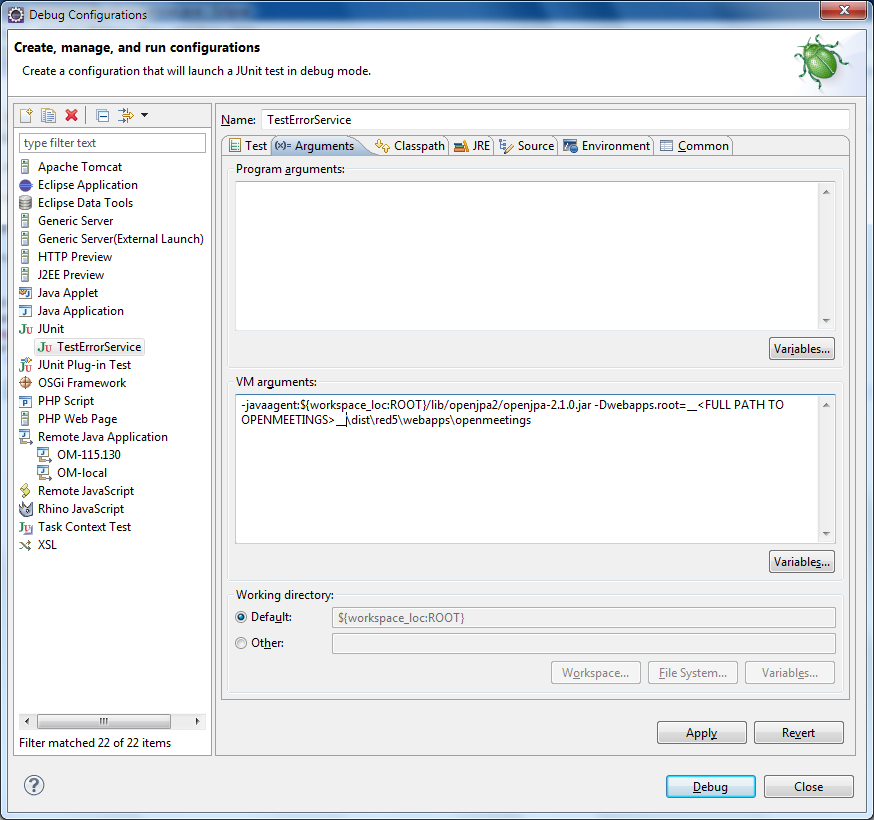
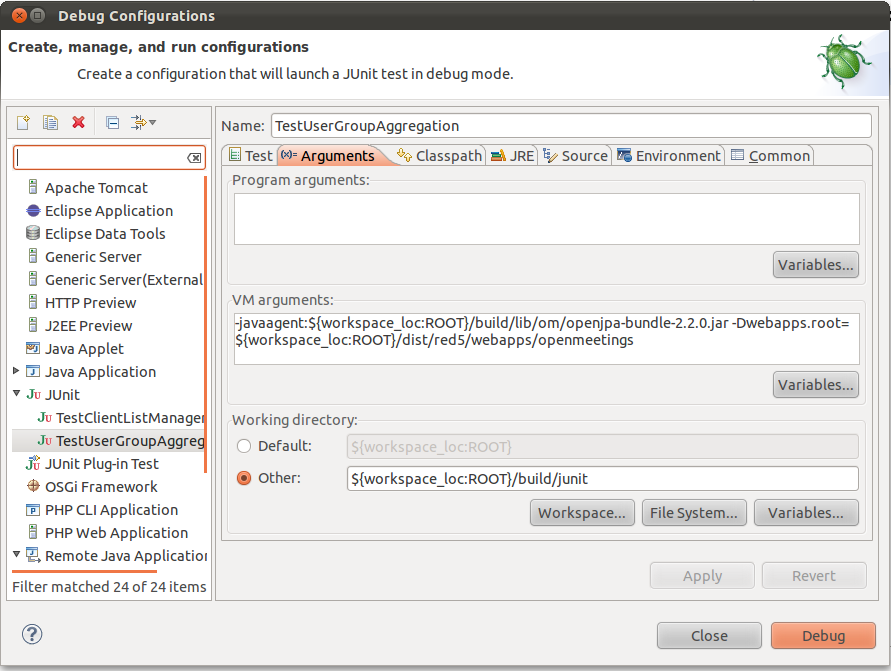
Documentation update: JUnit and index page
git-svn-id: https://svn.apache.org/repos/asf/incubator/openmeetings/trunk@1300705 13f79535-47bb-0310-9956-ffa450edef68

Changed region(s): [[0.0, 0.0, 1.0, 1.0]]

diff --git a/singlewebapp/docs/JUnitTesting.html b/singlewebapp/docs/JUnitTesting.html
@@ -34,11 +34,8 @@ limitations under the License.
             <meta name="email" value="sebawagner@apache.org">
             
            
-            
-            
-            
-            
-            
+                                    
+                        
             <title>Apache OpenMeetings - JUnit Testing</title>
             <link rel="stylesheet" type="text/css" href="css/openmeetings.css">
             <link rel="stylesheet" type="text/css" href="css/jquery-ui.css">
@@ -930,11 +927,11 @@ limitations under the License.
 				<li>Select Arguments tab </li>
 				<li>Add the following code to the VM section </li>
 				<div class="xmlcode">
-					-javaagent:${workspace_loc:ROOT}/lib/openjpa2/openjpa-2.1.0.jar
-					-Dwebapps.root=__
-					&lt;FULL PATH TO
-					OPENMEETINGS&gt;__\dist\red5\webapps\openmeetings
+					-javaagent:${workspace_loc:ROOT}/build/lib/om/openjpa-bundle-2.2.0.jar
+					-Dwebapps.root=${workspace_loc:ROOT}/dist/red5/webapps/openmeetings
 				</div>
+				<li>To avoid temporary files being created in OM root, modify "Working Directory" as follows</li>
+				<div class="xmlcode">${workspace_loc:ROOT}/build/junit</div>
 			</ul>
                                                 <p>
 				<a class="fancybox-buttons" data-fancybox-group="button" href="images/Arguments.png">

diff --git a/singlewebapp/docs/index.html b/singlewebapp/docs/index.html
@@ -34,11 +34,8 @@ limitations under the License.
             <meta name="email" value="sebawagner@apache.org">
             
            
-            
-            
-            
-            
-            
+                                    
+                        
             <title>Apache OpenMeetings - Home</title>
             <link rel="stylesheet" type="text/css" href="css/openmeetings.css">
             <link rel="stylesheet" type="text/css" href="css/jquery-ui.css">
@@ -890,6 +887,8 @@ limitations under the License.
       <tr><td>
         <blockquote>
                                     <p>
+			    <strong>First builds are available at <a href="https://builds.apache.org/job/openmeetings">builds.apache.org</a> (2012-03-15)</strong><br />
+			    <strong>New committer: Timur Tleukenov (2012-03-06)</strong><br />
 			    <strong><a href="http://demo.openmeetings.de" target="_BLANK" rel="nofollow">Demo server</a> updated to r1236172 (2012-01-26)</strong><br />
 			    <strong>New committer: German Grekhov (2011-12-26)</strong><br />
 				<strong>OpenMeetings has been accepted into the Apache Incubator
